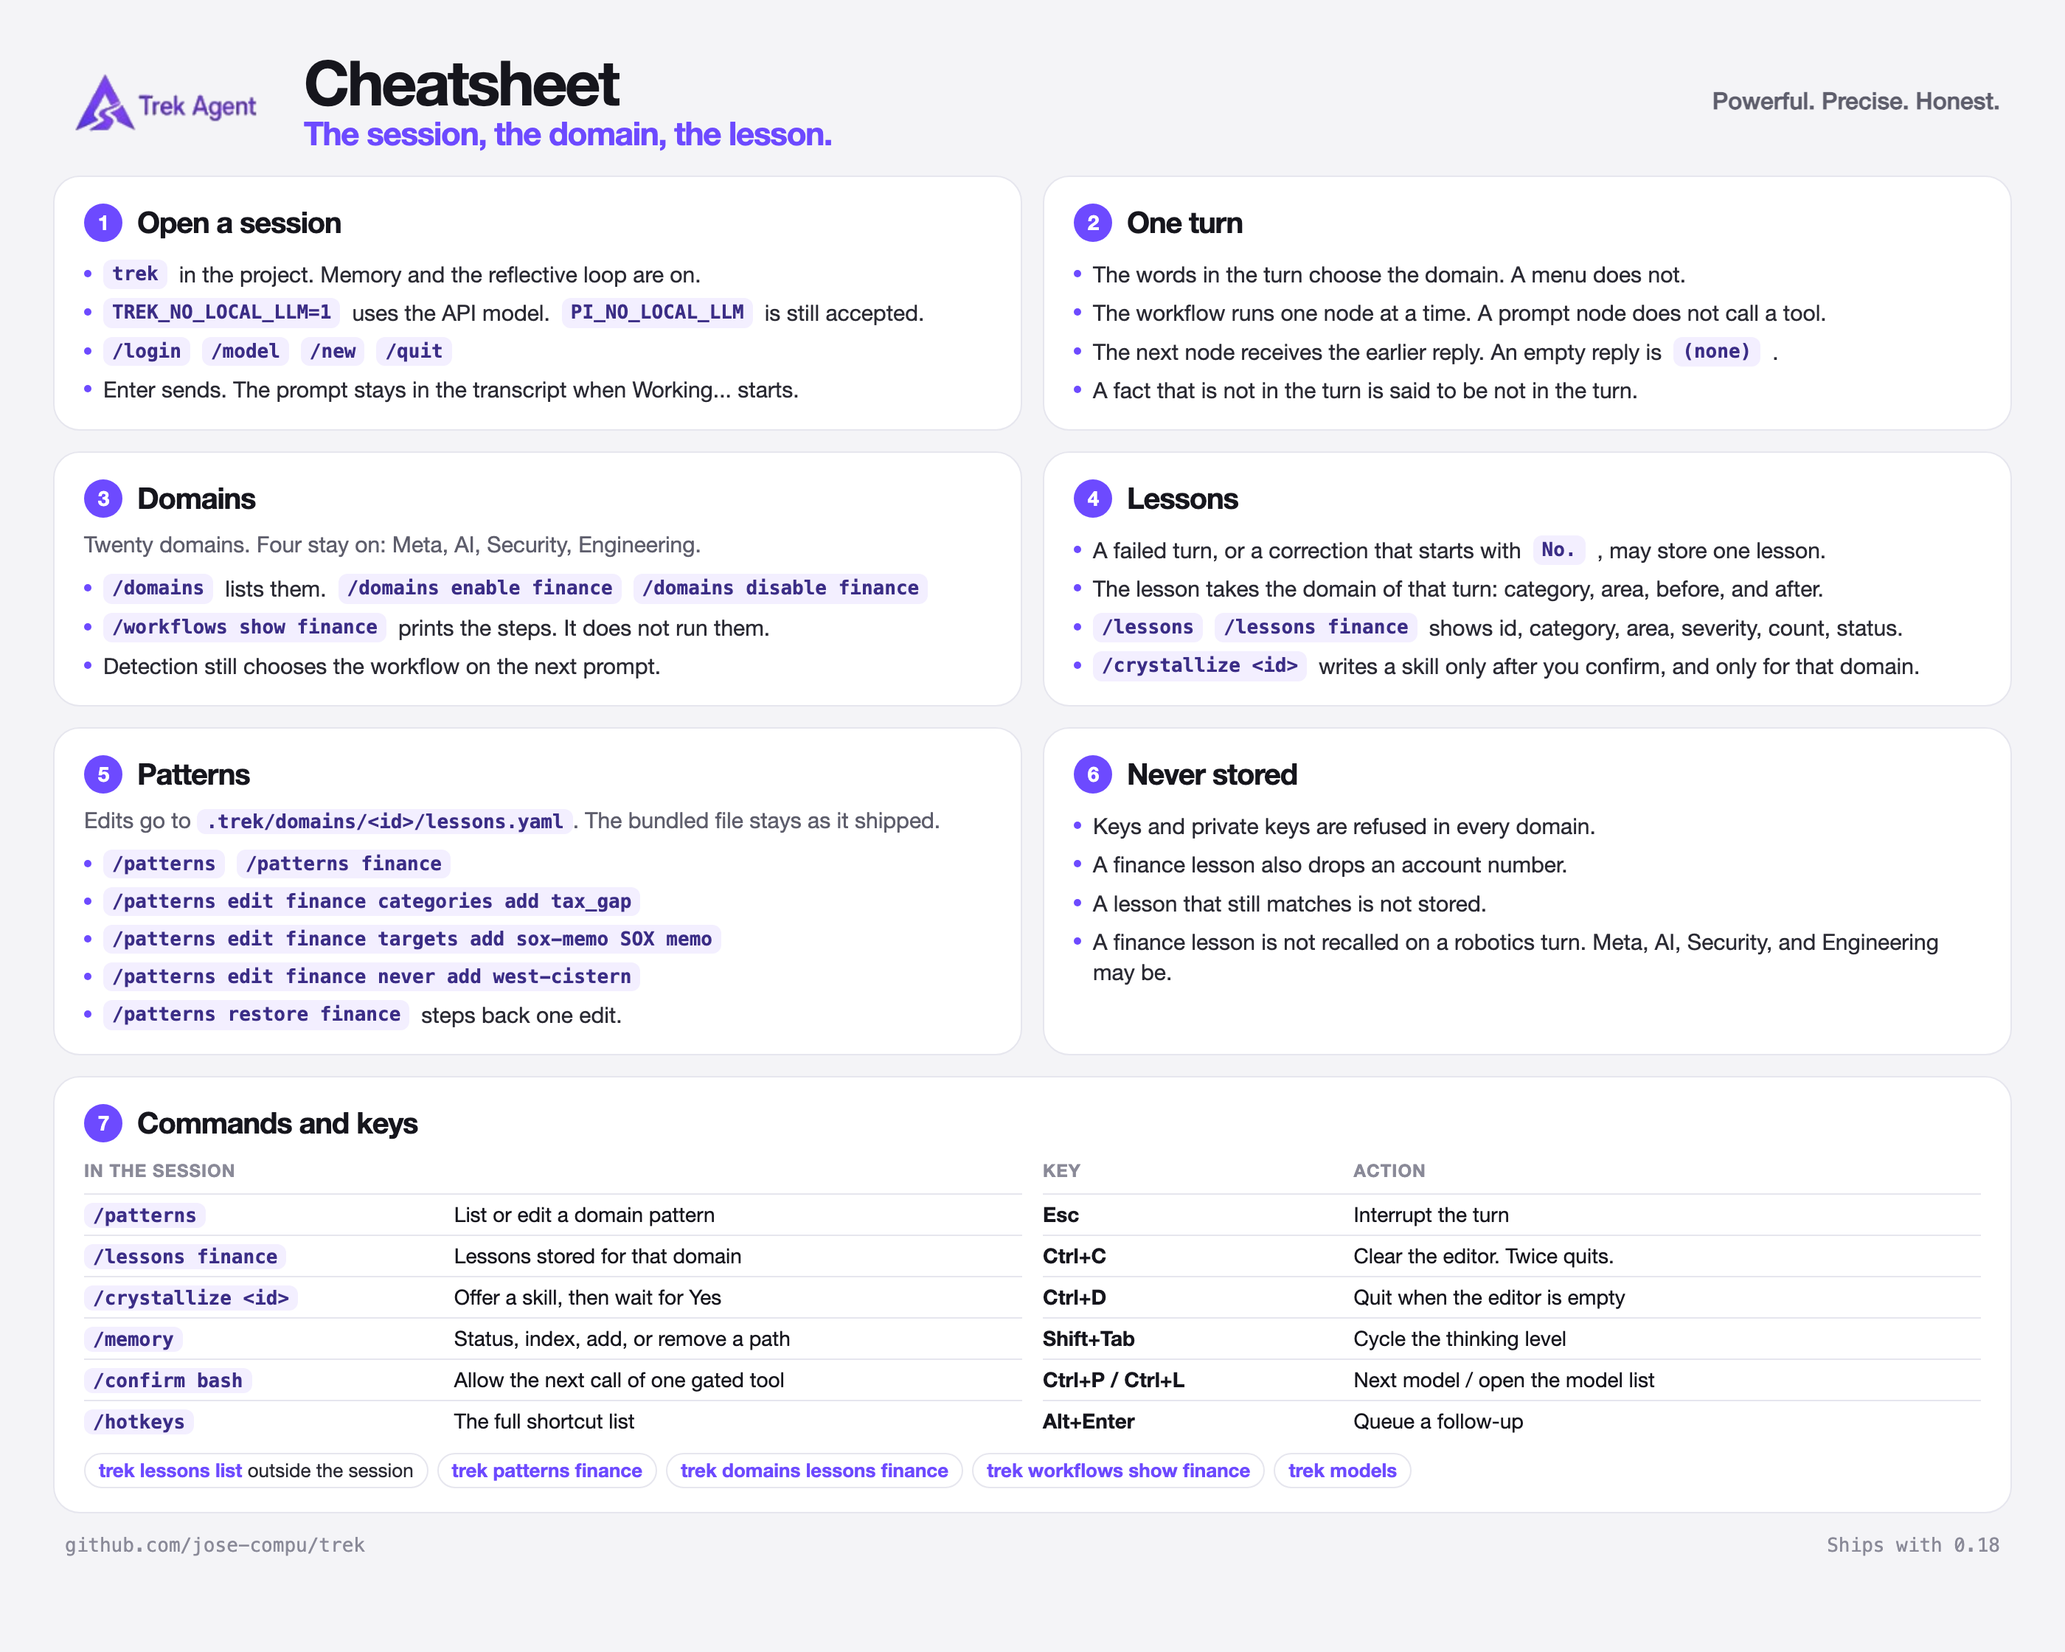
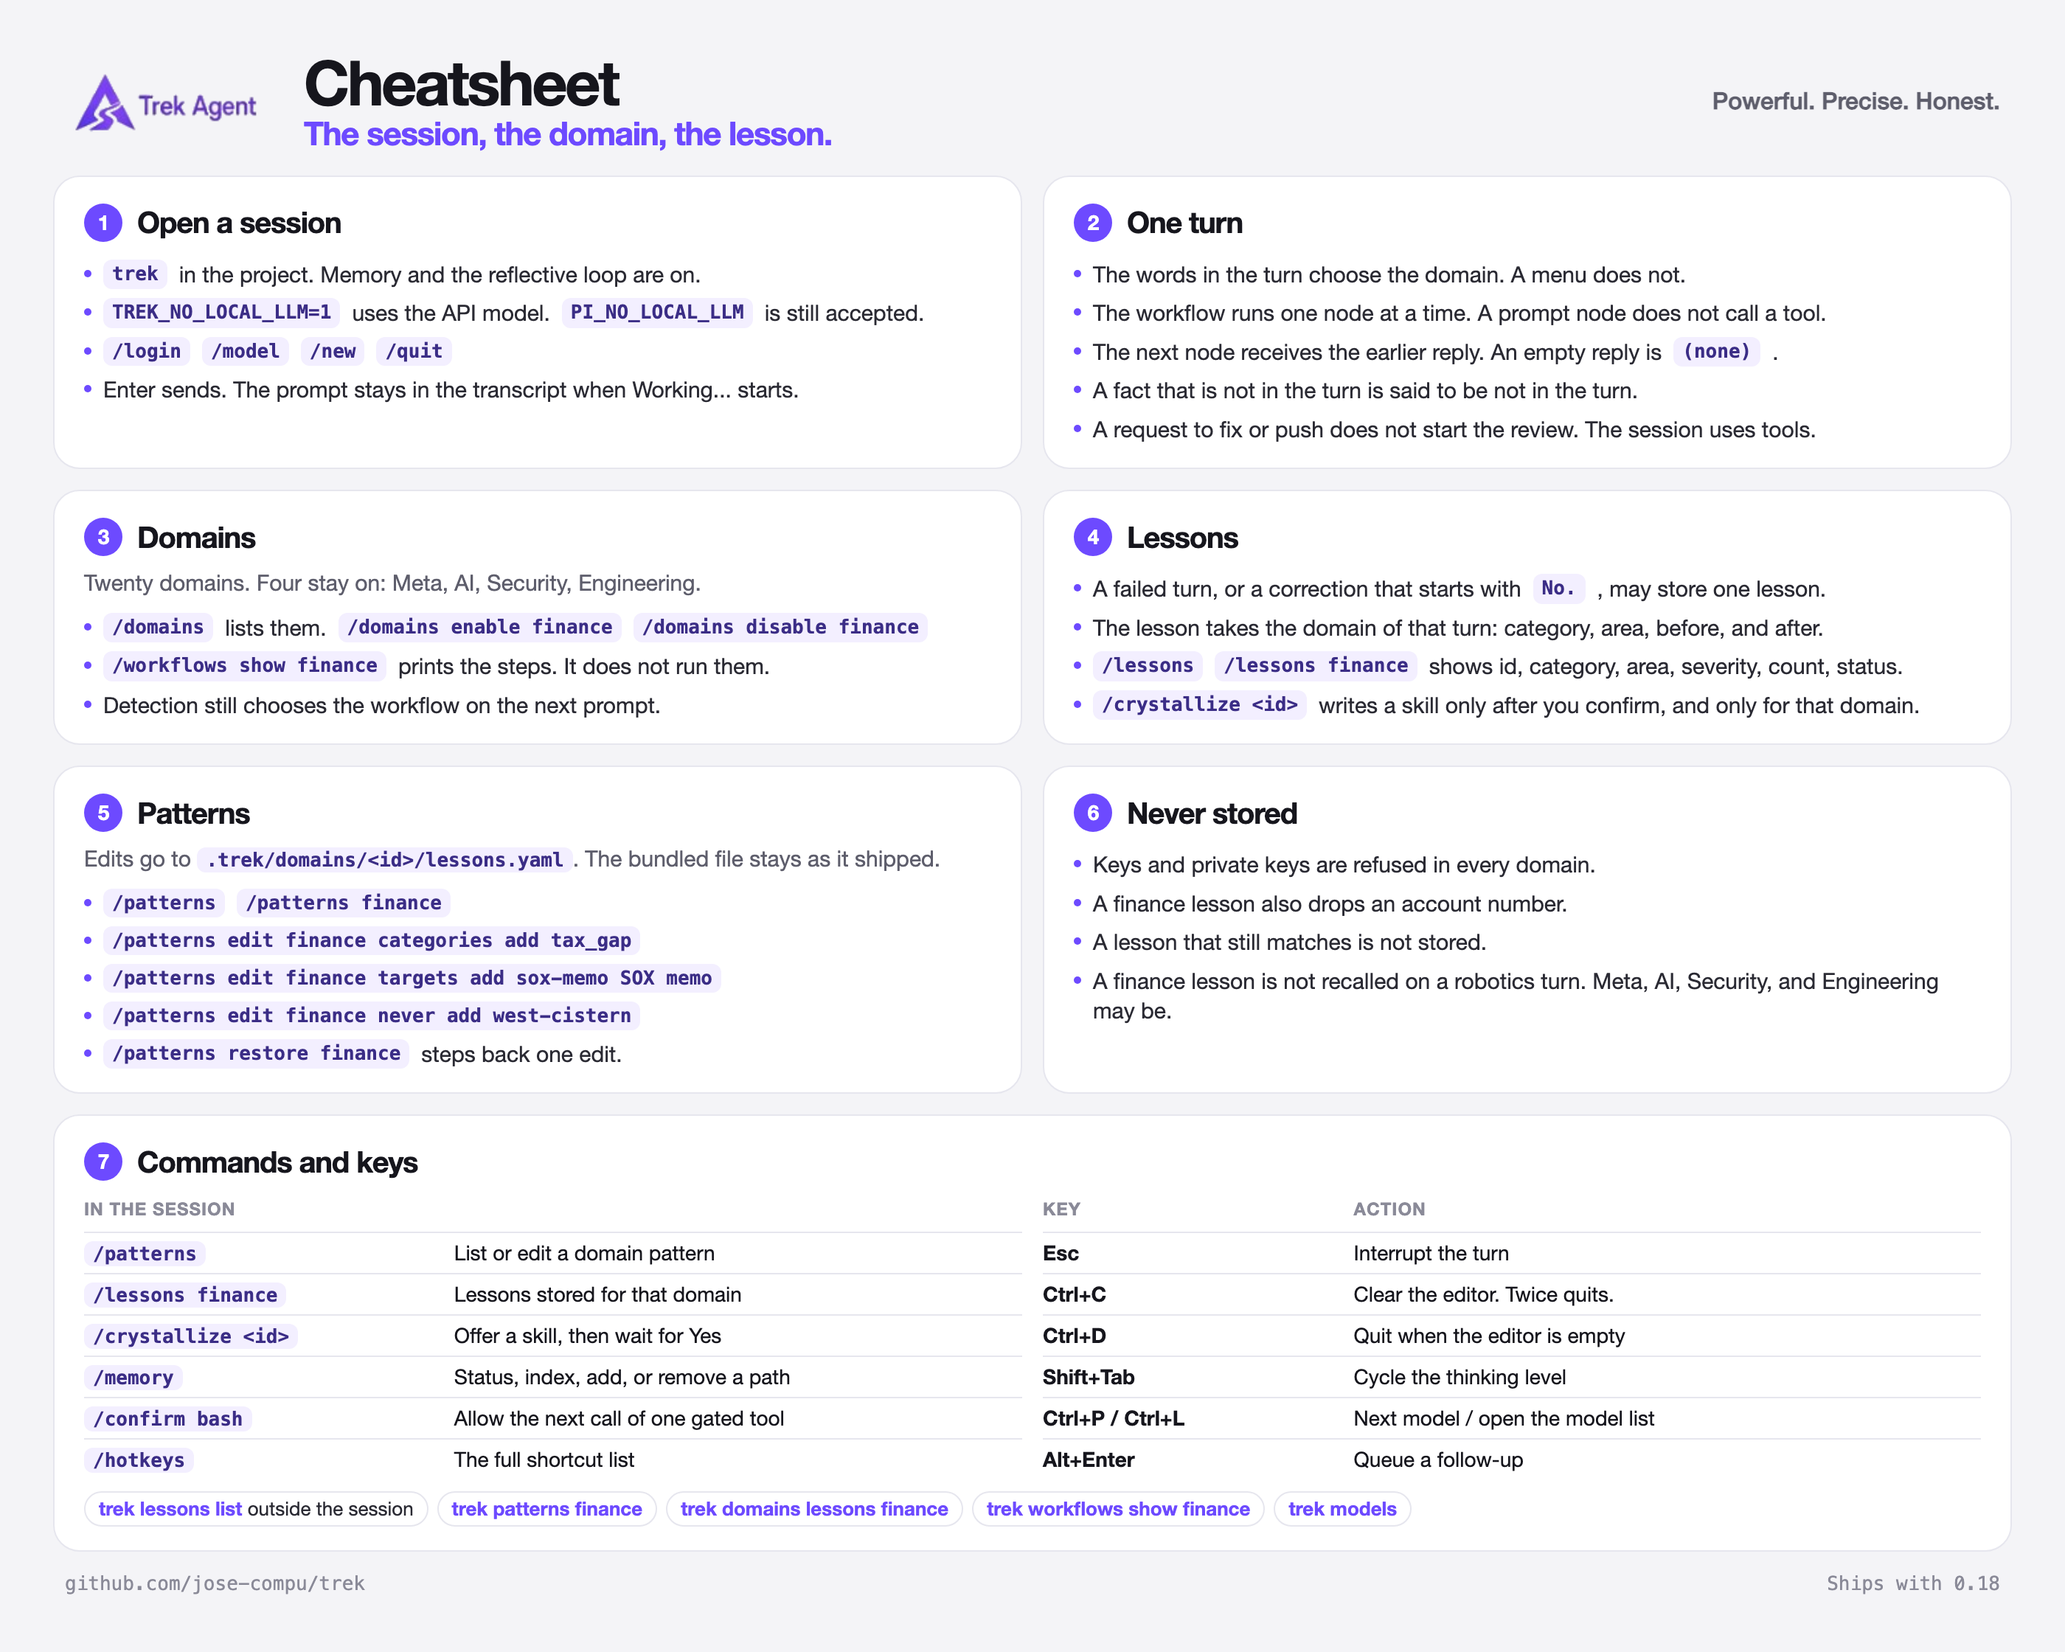
Release v0.15.1
A request to fix or push no longer starts the review that refused tools.

Changed region(s): [[0.0311, 0.2812, 0.8079, 0.9688], [0.4971, 0.25, 0.9321, 0.625], [0.9011, 0.9375, 0.9632, 0.9688]]

diff --git a/packages/coding-agent/test/workflow-gate.test.ts b/packages/coding-agent/test/workflow-gate.test.ts
@@ -278,6 +278,26 @@ describe("workflow gate", () => {
 		expect(selectDomain(loadDomainCatalog(harness.tempDir), { task: FINANCE_TURN }).workflow).toBe("control-break");
 	});
 
+	test("a fix or a blocked session does not inherit the review that refuses tools", async () => {
+		const cwd = mkdtempSync(join(tmpdir(), "trek-workflow-fix-"));
+		const catalog = loadDomainCatalog(cwd);
+		expect(selectDomain(catalog, { task: `${ENGINEERING_TURN} Fix and push.` }).workflow).toBe("none");
+		expect(
+			selectDomain(catalog, { task: "what is happening? we are blocked", previous: ENGINEERING_TURN }).workflow,
+		).toBe("none");
+		expect(selectDomain(catalog, { task: "the amount is 1200", previous: ENGINEERING_TURN }).workflow).toBe(
+			"change-review",
+		);
+
+		const harness = await createHarness({ enableReflectiveLoop: true });
+		harnesses.push(harness);
+		harness.setResponses([fauxAssistantMessage("I will read the failing check.")]);
+		await harness.session.prompt(`${ENGINEERING_TURN} Fix and push the pull request.`);
+		expect(assistantCount(harness)).toBe(1);
+		expect(assistantText(harness)).toContain("failing check");
+		expect(harness.session.getWorkflowCheck()).toBeUndefined();
+	});
+
 	test("a complete engineering turn keeps the layer rule and does not ask", () => {
 		expect(missingWorkflowFacts("engineering", ENGINEERING_TURN)).toEqual([]);
 		expect(missingWorkflowFacts("engineering", "The build failed.")).toEqual(["build", "violation", "debt"]);

diff --git a/packages/coding-agent/src/core/domains/select.ts b/packages/coding-agent/src/core/domains/select.ts
@@ -23,7 +23,22 @@ export interface SelectDomainInput {
 	previous?: string;
 }
 
+const NONE: DomainSelection = {
+	domain: "none",
+	workflow: "none",
+	selectionReason: "none",
+	nodeIds: [],
+	yaml: "",
+	parameters: [],
+};
+
+/** A fix, a push, or a blocked session needs tools. A review workflow must not take that turn. */
+export function turnNeedsTools(task: string): boolean {
+	return /\b(fix|push|blocked|unblock|what is happening|what happened)\b/i.test(task);
+}
+
 export function selectDomain(catalog: DomainCatalog, input: SelectDomainInput): DomainSelection {
+	if (turnNeedsTools(input.task)) return NONE;
 	const files = [...(input.files ?? []), ...namedFiles(input.task)];
 	const currentText = [input.task, ...files].join("\n");
 	const current = scoreDomains(catalog, currentText);
@@ -34,7 +49,7 @@ export function selectDomain(catalog: DomainCatalog, input: SelectDomainInput): 
 	if (previous && input.previous) {
 		return selectionFrom(previous.domain, "match", input.previous, previous.matched);
 	}
-	return { domain: "none", workflow: "none", selectionReason: "none", nodeIds: [], yaml: "", parameters: [] };
+	return NONE;
 }
 
 function namedFiles(task: string): string[] {

diff --git a/assets/cheatsheet.html b/assets/cheatsheet.html
@@ -169,6 +169,7 @@
           <li>The workflow runs one node at a time. A prompt node does not call a tool.</li>
           <li>The next node receives the earlier reply. An empty reply is <code>(none)</code>.</li>
           <li>A fact that is not in the turn is said to be not in the turn.</li>
+          <li>A request to fix or push does not start the review. The session uses tools.</li>
         </ul>
       </section>
       <section class="card">

diff --git a/packages/coding-agent/src/core/domains/index.ts b/packages/coding-agent/src/core/domains/index.ts
@@ -55,6 +55,7 @@ export {
 	type SelectDomainInput,
 	type SelectionReason,
 	selectDomain,
+	turnNeedsTools,
 } from "./select.ts";
 export { completeDomainCommand, formatDomainList, runDomainSessionCommand } from "./session-command.ts";
 export {

diff --git a/README.md b/README.md
@@ -1,6 +1,6 @@
 ![Trek Agent 0.15 Domain Learning](./assets/banner-0.15.png)
 
-# Trek Agent v0.15.0
+# Trek Agent v0.15.1
 
 Trek is a **hard fork of the [Pi Coding Agent](https://pi.dev/)** — the minimal terminal coding agent with read, bash, edit, write tools, sessions, and a TypeScript extension ecosystem.
 
@@ -23,11 +23,11 @@ Every user turn follows **Observe → Intend → Act → Reflect** (O→I→A→
 
 Pi compatibility is preserved: community packages from [pi.dev/packages](https://pi.dev/packages) install with `trek install npm:<package>`. See [Pi Coding Agent plugins](#pi-coding-agent-plugins) below.
 
-**Version:** 0.15.0 — see [CHANGELOG.md](./CHANGELOG.md). Full plan: [ROADMAP.md](../ROADMAP.md). GitHub release only.
+**Version:** 0.15.1 — see [CHANGELOG.md](./CHANGELOG.md). Full plan: [ROADMAP.md](../ROADMAP.md). GitHub release only.
 
 ## Status
 
-**0.15.0** is current. A lesson belongs to one domain and is recalled only there. `/patterns` edits the pattern. `/crystallize` writes a domain skill only after you confirm. A workflow node calls a tool only when that node allows it. **0.14.1** shows the honesty line, a stored lesson, and Working... as soon as there is something to report. Shortcut keys, the branch, and the model name use a quiet accent. **0.14.0** runs up to four branches at once. A failed turn stores a lesson. `/crystallize` writes a skill only after you confirm. **0.13.1** `/domains` turns a domain on or off for the next prompt. A workflow reply that skips a node, or adds a fact that is not in the turn, is marked on that turn. **0.13.0** added operator modes. `--operator-mode` chooses supervised, delegated, checkpoint, diagnostic, or ask. Ask answers and may read. It does not write. The laws stay in force. A selected Archon workflow is called one node at a time. An ambiguous prompt asks one question. On Telegram, a guest may talk and cannot run tools. **0.12.0** draws a green workflow call. Domain commands are in [Domains](#domains). **0.11.0** memory is documented in [Memory](#memory). **0.10.0** runs independent reads, and edits of different files, together. `trek processes` prints the seeded tree. `--effort loose` multiplies the effort stops by 10, and `--effort off` does not stop the turn for effort. **0.9.1** hides an edit that already matches the file. **0.9.0** routes each component, keeps same-file edits from colliding, and stops a prompt that repeats a failed command or a no-op edit. **0.8.1** updated production dependencies flagged by `npm audit`. **0.8.0** made remote API the default and kept llama.cpp opt-in. **0.7.0 Audit** shipped the session seed (default `42`), `default` / `strict_audit` modes, per-step `trek:audit_step` records, and honest warnings when a provider cannot honor seed. Bit-exact replay is not claimed on closed APIs or on GPU llama.cpp. Artifact files under `.trek/versions/` are local history (keep them out of git; labeled commits are the git undo layer).
+**0.15.1** is current. A request to fix, push, or unblock does not start the engineering review. **0.15.0** types a lesson by its domain and recalls it only there. `/patterns` edits the pattern. `/crystallize` writes a domain skill only after you confirm. A workflow node calls a tool only when that node allows it. **0.14.1** shows the honesty line, a stored lesson, and Working... as soon as there is something to report. Shortcut keys, the branch, and the model name use a quiet accent. **0.14.0** runs up to four branches at once. A failed turn stores a lesson. `/crystallize` writes a skill only after you confirm. **0.13.1** `/domains` turns a domain on or off for the next prompt. A workflow reply that skips a node, or adds a fact that is not in the turn, is marked on that turn. **0.13.0** added operator modes. `--operator-mode` chooses supervised, delegated, checkpoint, diagnostic, or ask. Ask answers and may read. It does not write. The laws stay in force. A selected Archon workflow is called one node at a time. An ambiguous prompt asks one question. On Telegram, a guest may talk and cannot run tools. **0.12.0** draws a green workflow call. Domain commands are in [Domains](#domains). **0.11.0** memory is documented in [Memory](#memory). **0.10.0** runs independent reads, and edits of different files, together. `trek processes` prints the seeded tree. `--effort loose` multiplies the effort stops by 10, and `--effort off` does not stop the turn for effort. **0.9.1** hides an edit that already matches the file. **0.9.0** routes each component, keeps same-file edits from colliding, and stops a prompt that repeats a failed command or a no-op edit. **0.8.1** updated production dependencies flagged by `npm audit`. **0.8.0** made remote API the default and kept llama.cpp opt-in. **0.7.0 Audit** shipped the session seed (default `42`), `default` / `strict_audit` modes, per-step `trek:audit_step` records, and honest warnings when a provider cannot honor seed. Bit-exact replay is not claimed on closed APIs or on GPU llama.cpp. Artifact files under `.trek/versions/` are local history (keep them out of git; labeled commits are the git undo layer).
 
 ## Memory
 

diff --git a/AGENTS.md b/AGENTS.md
@@ -158,6 +158,24 @@ Attribution:
 
 5. **If CI publish fails**: inspect the failed `publish-npm` job. The publish helper is idempotent and skips package versions already present on npm, so rerun the tag workflow after fixing CI or transient npm issues. Do not rerun `npm run release:patch` or `npm run release:minor` for the same version.
 
+## Cheatsheet
+
+The one-page session map is `assets/cheatsheet.html`. The image is `assets/cheatsheet-0.18.png` (Chrome headless, scale 2, window 1400×1120, output 2800×2240). It ships with 0.18. `/hotkeys` stays the full binding table.
+
+When a command, key, or lesson rule on that sheet changes, update the HTML and regenerate the PNG in the same change. List only commands and keys that work. Do not add `/hierarchy` until that command exists. Do not list `shift+ctrl` chords; Terminal.app drops them ([#143](https://github.com/jose-compu/trek/issues/143)).
+
+Current sheet:
+
+- **Open.** `trek` in the project. Memory and the reflective loop are on. `TREK_NO_LOCAL_LLM=1` uses the API model. `PI_NO_LOCAL_LLM` is still accepted. `/login` `/model` `/new` `/quit`. Enter sends. The prompt stays in the transcript when Working... starts.
+- **One turn.** The words choose the domain. The workflow runs one node at a time. A prompt node does not call a tool. The next node receives the earlier reply, or `(none)`. A fact that is not in the turn is said to be not in the turn. A request to fix, push, or unblock does not start that review. The session uses tools.
+- **Domains.** Twenty domains. Meta, AI, Security, and Engineering stay on. `/domains`, `/domains enable finance`, `/domains disable finance`. `/workflows show finance` prints the steps and does not run them.
+- **Lessons.** A failed turn, or a correction that starts with `No.`, may store one lesson in that turn's domain. `/lessons` and `/lessons finance`. `/crystallize <id>` writes a skill only after Yes, and only for that domain.
+- **Patterns.** Edits go to `.trek/domains/<id>/lessons.yaml`. `/patterns`, `/patterns finance`, `/patterns edit finance categories add tax_gap`, `/patterns edit finance targets add sox-memo SOX memo`, `/patterns edit finance never add west-cistern`, `/patterns restore finance`.
+- **Never stored.** Keys and private keys are refused in every domain. A finance lesson also drops an account number. A matching lesson is not stored. A finance lesson is not recalled on a robotics turn. Meta, AI, Security, and Engineering may be.
+- **Commands.** `/patterns`, `/lessons finance`, `/crystallize <id>`, `/memory`, `/confirm bash`, `/hotkeys`.
+- **Keys.** Esc interrupts. Ctrl+C clears the editor and twice quits. Ctrl+D quits when the editor is empty. Shift+Tab cycles thinking. Ctrl+P cycles the model. Ctrl+L opens the model list. Alt+Enter queues a follow-up.
+- **Outside the session.** `trek lessons list`, `trek patterns finance`, `trek domains lessons finance`, `trek workflows show finance`, `trek models`.
+
 ## User Override
 
 If the user's instructions conflict with any rule in this document, ask for explicit confirmation before overriding. Only then execute their instructions.

diff --git a/CHANGELOG.md b/CHANGELOG.md
@@ -1,10 +1,16 @@
 # Trek Changelog
 
-Monorepo release notes for **Trek Agent** (`trek-monorepo` @ `0.15.0`).
+Monorepo release notes for **Trek Agent** (`trek-monorepo` @ `0.15.1`).
 
 User-facing CLI details also live in [`packages/coding-agent/CHANGELOG.md`](packages/coding-agent/CHANGELOG.md) (shown at startup via `/changelog`). Package-specific histories: `packages/{ai,agent,tui}/CHANGELOG.md` (Pi upstream; Trek renames only where noted).
 
 ## [Unreleased]
+
+## [0.15.1] - 2026-10-31
+
+### Fixed
+
+- A request to fix, push, or unblock does not start the engineering review. That review quoted a rule and then refused tools, so a failed check was never read. A review that does not ask for a fix still runs, and it does not invent a rule or a debt.
 
 ## [0.15.0] - 2026-10-31
 

diff --git a/packages/coding-agent/CHANGELOG.md b/packages/coding-agent/CHANGELOG.md
@@ -4,6 +4,12 @@ Release notes for `@trek/coding-agent`. Upstream Pi history lives in the parent 
 
 ## [Unreleased]
 
+## [0.15.1] - 2026-10-31
+
+### Fixed
+
+- A request to fix, push, or unblock does not start the engineering review. That review quoted a rule and then refused tools, so a failed check was never read. A review that does not ask for a fix still runs, and it does not invent a rule or a debt.
+
 ## [0.15.0] - 2026-10-31
 
 ### Added

diff --git a/packages/agent/CHANGELOG.md b/packages/agent/CHANGELOG.md
@@ -2,6 +2,8 @@
 
 ## [Unreleased]
 
+## [0.15.1] - 2026-10-31
+
 ## [0.15.0] - 2026-10-31
 
 ## [0.14.1] - 2026-10-30

diff --git a/packages/ai/CHANGELOG.md b/packages/ai/CHANGELOG.md
@@ -2,6 +2,8 @@
 
 ## [Unreleased]
 
+## [0.15.1] - 2026-10-31
+
 ## [0.15.0] - 2026-10-31
 
 ## [0.14.1] - 2026-10-30

diff --git a/packages/tui/CHANGELOG.md b/packages/tui/CHANGELOG.md
@@ -2,6 +2,8 @@
 
 ## [Unreleased]
 
+## [0.15.1] - 2026-10-31
+
 ## [0.15.0] - 2026-10-31
 
 ## [0.14.1] - 2026-10-30
